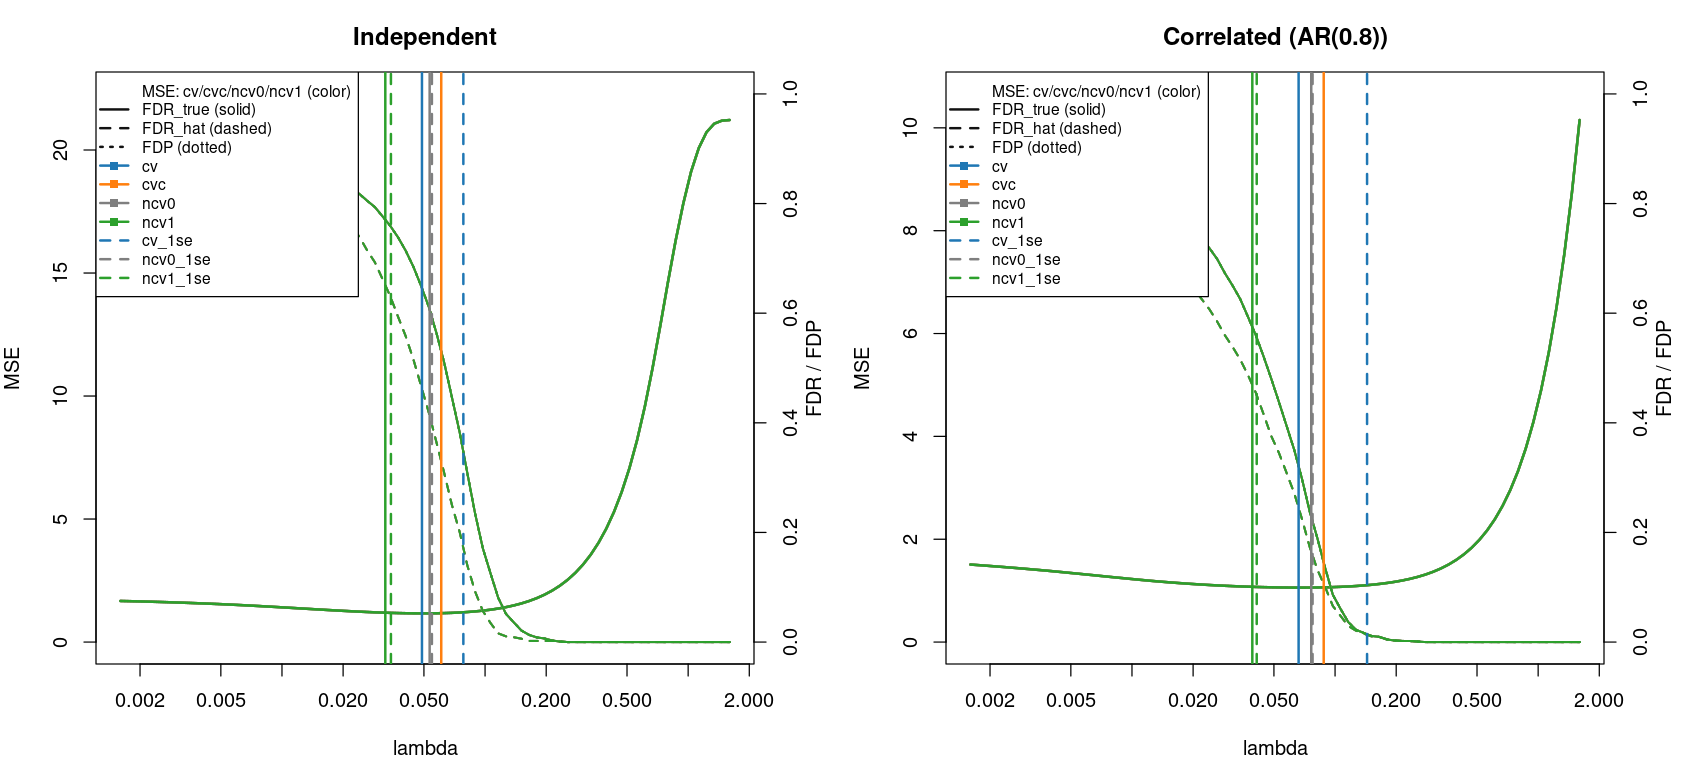
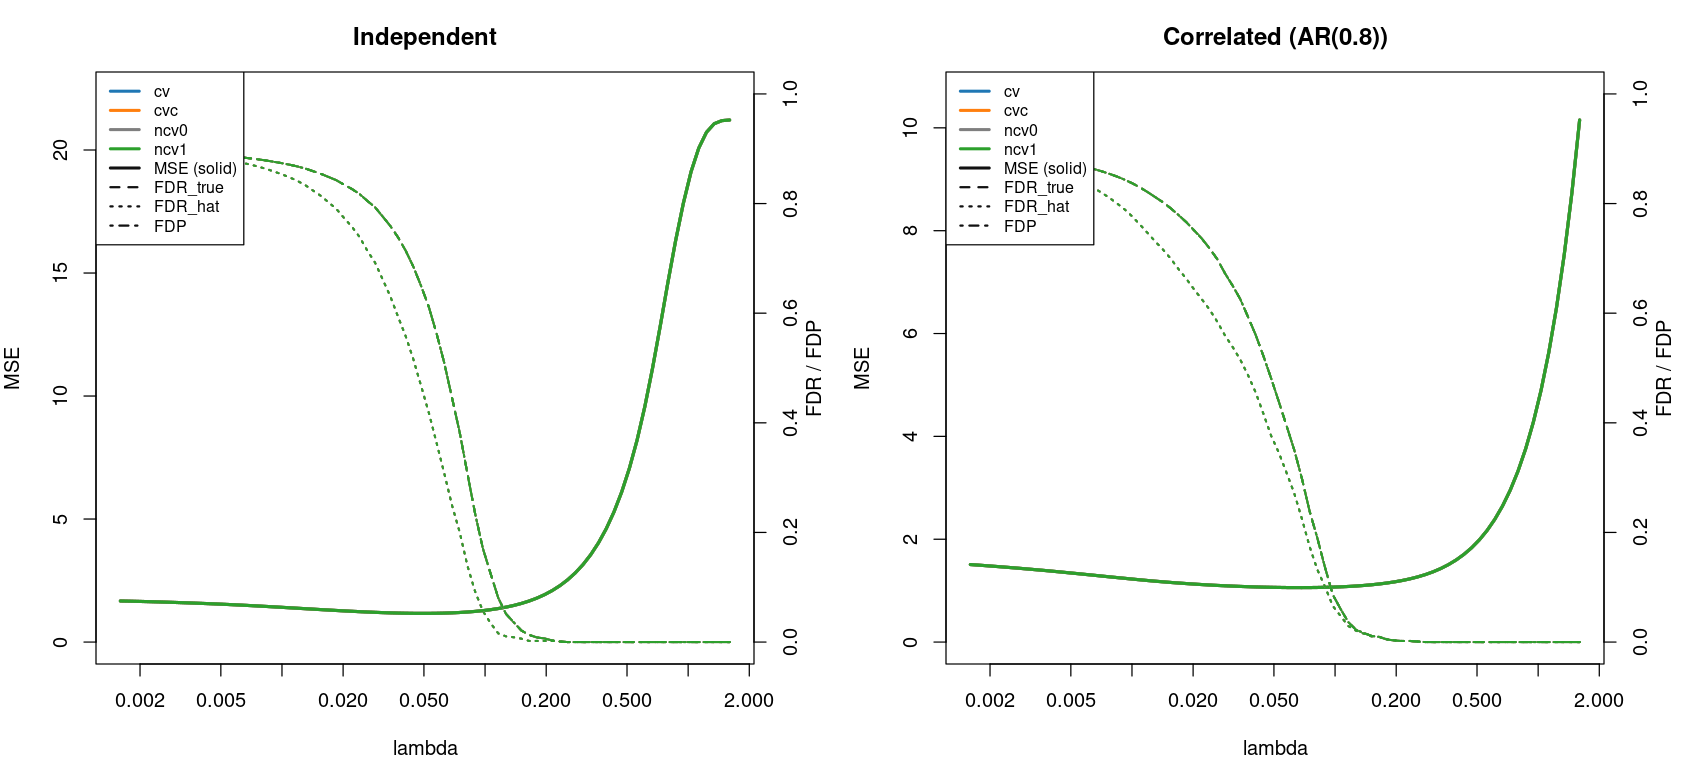
Redraw ETFDR as lambda-function curves for MSE/FDR/FDP

diff --git a/simulation1_reproduction_plan.md b/simulation1_reproduction_plan.md
@@ -98,6 +98,9 @@
   并在右轴展示 `FDR_true(λ)`、`FDR_hat(λ)`、`FDP(λ)` 曲线；可直接基于已有
   `results/etfdr_fig1*_curves.csv` 与 `results/etfdr_fig1*_ncv1_overlay_all_selected.csv`
   重绘，无需重跑仿真。
+- 图形规范补充：ETFDR 扩展图采用“函数曲线”表达（随 `λ` 连续变化），
+  左轴为 `MSE`、右轴为 `FDR/FDP`，方法颜色固定为
+  `cv(蓝) / cvc(橙) / ncv0(灰) / ncv1(绿)`，避免仅用竖线选点表达。
 
 ## 10. 扩展任务：NCV 分层嵌套选模（ncv0/ncv1/ncv2/ncv3）
 
